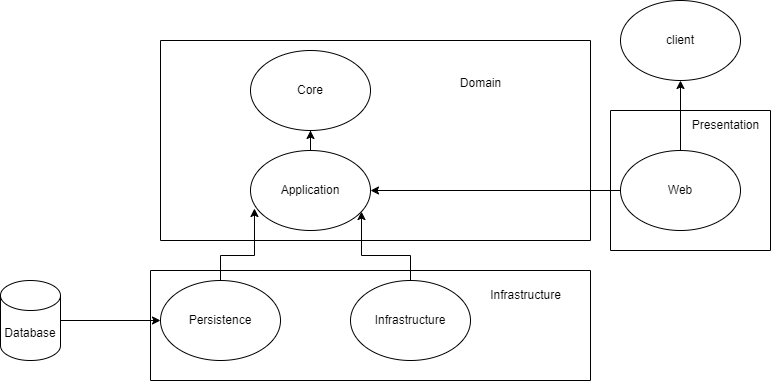
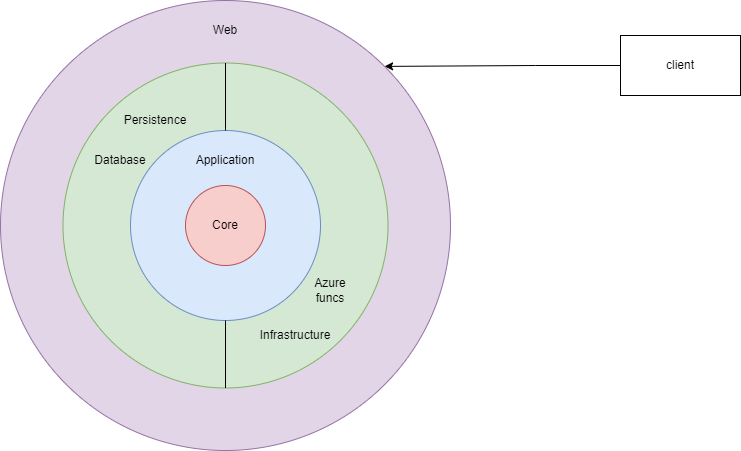
added readme files and modified project diagram

diff --git a/client/README.md b/client/README.md
@@ -1,27 +1,22 @@
 # Client
 
+This is client application for my [ToDo App](https://github.com/kuxulin/silver-octo-tribble)
 This project was generated with [Angular CLI](https://github.com/angular/angular-cli) version 18.2.3.
 
-## Development server
+## Installation
 
-Run `ng serve` for a dev server. Navigate to `http://localhost:4200/`. The application will automatically reload if you change any of the source files.
+### Certificates
 
-## Code scaffolding
+Project requires self signed certificate for appropriate work, create cert.key and cert.crt files and place them into root folder.
+If you don`t know, how to do that, follow instructions in this section.
 
-Run `ng generate component component-name` to generate a new component. You can also use `ng generate directive|pipe|service|class|guard|interface|enum|module`.
+In order to use this project locally, you need to have [openssl](https://openssl-library.org/source/)
 
-## Build
+1. Open OpenSSL Command Prompt
+2. Run this command
+   `openssl req -x509 -newkey rsa:4096 -sha256 -days 365 -nodes -keyout cert.key -out cert.crt -subj /CN=<print name here> -addext "subjectAltName=DNS:localhost,IP:10.0.0.1"`
+   It will create two files in openssl console folder. Paste them into your root folder
+3. To avoid warning from browser, install .crt file to Trusted Root Certification Authorities folder
 
-Run `ng build` to build the project. The build artifacts will be stored in the `dist/` directory.
-
-## Running unit tests
-
-Run `ng test` to execute the unit tests via [Karma](https://karma-runner.github.io).
-
-## Running end-to-end tests
-
-Run `ng e2e` to execute the end-to-end tests via a platform of your choice. To use this command, you need to first add a package that implements end-to-end testing capabilities.
-
-## Further help
-
-To get more help on the Angular CLI use `ng help` or go check out the [Angular CLI Overview and Command Reference](https://angular.dev/tools/cli) page.
+Run `npm i` to install all required dependencies
+Run `ng serve` for a dev server. Navigate to `https://localhost:4200/`. The application will automatically reload if you change any of the source files.

diff --git a/README.md b/README.md
@@ -1,0 +1,41 @@
+# ToDo App
+## Description
+
+This is a demo project with ToDo app functionality: managing tasks, projects, users.
+Application was written using ASP.NET Core framework, MS SQL Server and Angular framework. 
+
+This project is my demo and was built to obtain usefull skills in Clean Architecture, web development, database administration, CI/CD.
+
+## Working link
+If my azure subscription is active, you can try this project [here](https://client-14866.azurewebsites.net)
+
+## Project structure
+![App diagram](./diagram.png)
+
+## Current functionality
+Non authorized users have no access to project.
+Authorized users mat be admins, managers or employees.
+
+Admins:
+* Manage user roles, delete users
+
+Managers:
+* Create projects
+* Manage project tasks and employees
+
+Employees:
+* Manage task statuses
+
+All users can receive notifications in real time about usefull information concerning their field of work.
+Managers and employees can obtain tasks of their projects with additional description.
+
+## Installation and running
+In order to work with this project locally, Visual Studio and SQL Server are needed.
+1. Clone this repository
+2. Open solution in Visual Studio
+3. Rebuild solution
+4. Create database with name ReenbitProjectDb
+5. Publish Database project to created db
+6. Run Web project
+
+For client project, look at [client readme](./client/README.md)
